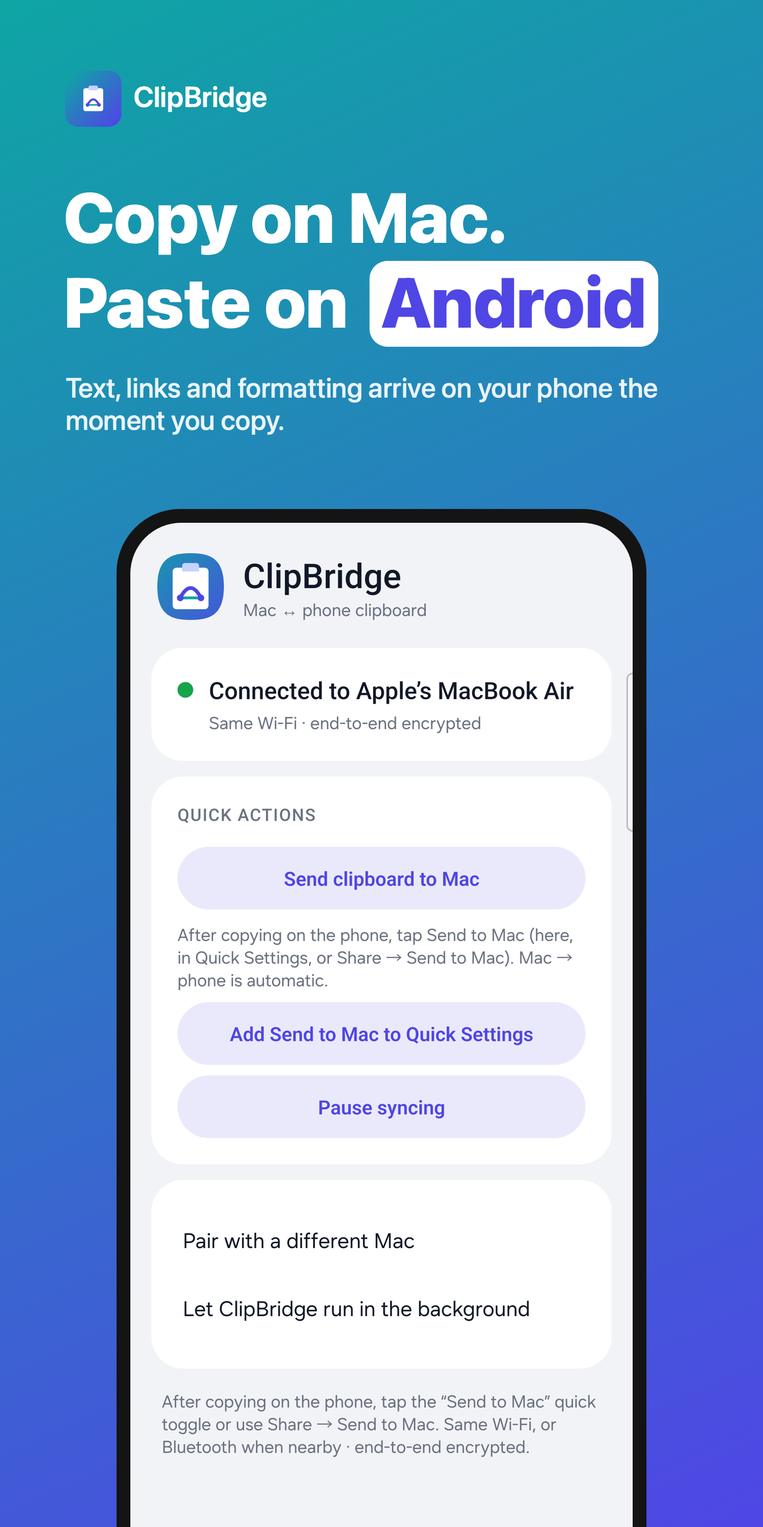
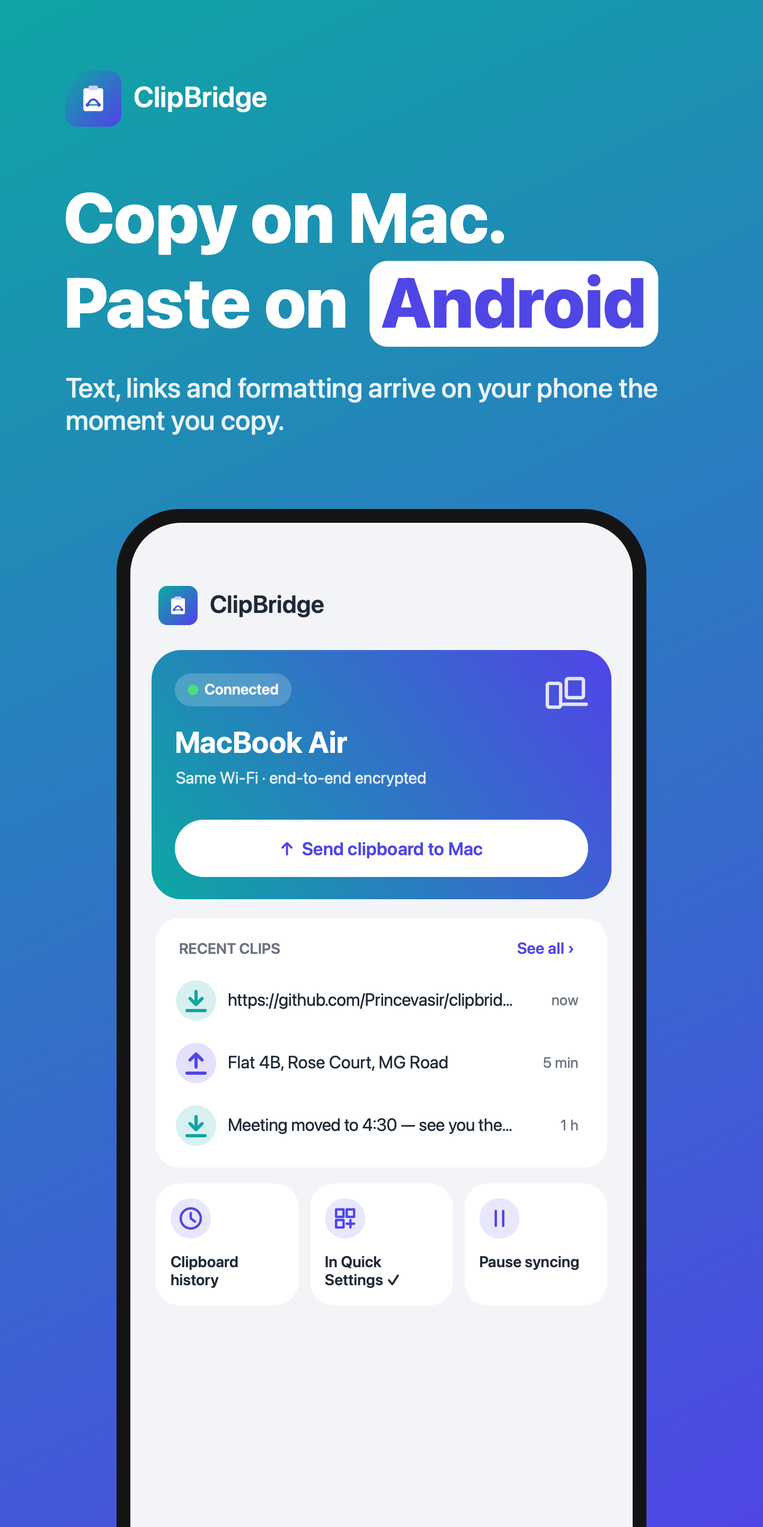
docs: store screenshots and trailer for the new design; README for history, Recent clips and the toggle guide
Six panels (new main screen, Quick Settings toggle, clipboard history, files, Bluetooth, privacy), drawn with
sample clips; trailer rebuilt (32 s).

diff --git a/mac/Sources/iconmaker/StorePanels.swift b/mac/Sources/iconmaker/StorePanels.swift
@@ -1,103 +1,134 @@
 import AppKit
 import ClipBridgeCore
 
-/// The five Play Store panels. Screens are either real screenshots or the app's own cards with the app's own text.
+/// The Play Store panels. The Quick Settings panel is a real screenshot; the app screens are drawn with the
+/// app's own layout and wording and made-up sample clips (so no real copies ever appear).
 enum StorePanels {
     static func all(screenshots: URL) -> [StoreArt.Panel] {
         [
             .init(file: "store-1-copy-paste.png", lead: "Copy on Mac.", plain: "Paste on", highlight: "Android",
                   sub: "Text, links and formatting arrive on your phone the moment you copy.",
-                  screen: .image(screenshots.appendingPathComponent("1-connected.png"))),
+                  screen: .cards(mainScreen)),
             .init(file: "store-2-one-tap.png", lead: "One tap.", plain: "Sent to", highlight: "Mac",
                   sub: "Add Send to Mac next to Torch in Quick Settings. Copy, tap, paste on your Mac.",
                   screen: .image(screenshots.appendingPathComponent("2-quick-toggle.png")),
                   spotlight: NSPoint(x: 797, y: 1630)),  // the Send to Mac toggle in that screenshot
-            .init(file: "store-3-files.png", lead: "Copy files.", plain: "Share", highlight: "anywhere",
+            .init(file: "store-3-history.png", lead: "Copied earlier?", plain: "Find it", highlight: "again",
+                  sub: "Search recent clips you moved between your Mac and phone. Tap to copy, or send it again.",
+                  screen: .cards(historyScreen)),
+            .init(file: "store-4-files.png", lead: "Copy files.", plain: "Share", highlight: "anywhere",
                   sub: "⌘C up to 20 files on your Mac, then share them to Gmail, WhatsApp or Drive.",
                   screen: .cards(filesScreen)),
-            .init(file: "store-4-bluetooth.png", lead: "No Wi-Fi?", plain: "Still", highlight: "connected",
+            .init(file: "store-5-bluetooth.png", lead: "No Wi-Fi?", plain: "Still", highlight: "connected",
                   sub: "Away from home? ClipBridge switches to Bluetooth by itself, and back to Wi-Fi.",
                   screen: .cards(bluetoothScreen)),
-            .init(file: "store-5-private.png", lead: "Your clipboard.", plain: "Only", highlight: "yours",
+            .init(file: "store-6-private.png", lead: "Your clipboard.", plain: "Only", highlight: "yours",
                   sub: "Straight from your phone to your Mac, end-to-end encrypted. No account, no cloud.",
                   screen: .cards(privacyScreen)),
         ]
     }
 
-    private static let label = NSFont.systemFont(ofSize: 30, weight: .semibold)
-    private static let body = NSFont.systemFont(ofSize: 34)
+    private static let label = NSFont.systemFont(ofSize: 28, weight: .semibold)
+    private static let body = NSFont.systemFont(ofSize: 33)
+
+    static func mainScreen(_ s: NSRect) {
+        var y = StoreArt.header(in: s) - s.minY
+        let c = StoreArt.card(in: s, y: y, height: 470)
+        StoreArt.text("RECENT CLIPS", label, StoreArt.grey, at: NSPoint(x: c.minX + 44, y: c.minY + 40))
+        StoreArt.text("See all ›", NSFont.systemFont(ofSize: 30, weight: .semibold), BrandIcon.indigo, at: NSPoint(x: c.maxX - 170, y: c.minY + 38))
+        let rows: [(StoreArt.Kind, String, String)] = [
+            (.fromMac, "https://github.com/Princevasir/clipbridge", "now"),
+            (.toMac, "Flat 4B, Rose Court, MG Road", "5 min"),
+            (.fromMac, "Meeting moved to 4:30 — see you there", "1 h"),
+        ]
+        for (i, r) in rows.enumerated() {
+            StoreArt.clipRow(r.0, r.1, r.2, in: NSRect(x: c.minX + 24, y: c.minY + 100 + CGFloat(i) * 118, width: c.width - 48, height: 110))
+        }
+        y += 470 + 30
+        StoreArt.tiles(in: s, y: y)
+    }
+
+    static func historyScreen(_ s: NSRect) {
+        StoreArt.text("‹", NSFont.systemFont(ofSize: 64, weight: .medium), StoreArt.ink, at: NSPoint(x: s.minX + 44, y: s.minY + 96))
+        StoreArt.text("Clipboard history", NSFont.systemFont(ofSize: 46, weight: .semibold), StoreArt.ink, at: NSPoint(x: s.minX + 104, y: s.minY + 110))
+        StoreArt.text("⋮", NSFont.systemFont(ofSize: 48, weight: .bold), StoreArt.ink, at: NSPoint(x: s.maxX - 84, y: s.minY + 106))
+        let search = NSRect(x: s.minX + 44, y: s.minY + 210, width: s.width - 88, height: 110)
+        NSColor.white.setFill(); NSBezierPath(roundedRect: search, xRadius: 55, yRadius: 55).fill()
+        StoreArt.text("🔍  rose", NSFont.systemFont(ofSize: 34), StoreArt.ink, at: NSPoint(x: search.minX + 40, y: search.minY + 32))
+        var y: CGFloat = 360
+        func section(_ name: String) { StoreArt.text(name, label, StoreArt.grey, at: NSPoint(x: s.minX + 60, y: s.minY + y)); y += 56 }
+        func entry(_ k: StoreArt.Kind, _ t: String, _ meta: String) {
+            let r = StoreArt.card(in: s, y: y, height: 136)
+            StoreArt.clipRow(k, t, "", in: NSRect(x: r.minX + 10, y: r.minY + 8, width: r.width - 20, height: 120), meta: meta)
+            y += 156
+        }
+        section("TODAY")
+        entry(.toMac, "Flat 4B, Rose Court, MG Road, Pune", "To Mac · 5 min ago")
+        entry(.fromMac, "Rose Court visitor parking: gate 2", "From Mac · 2 h ago")
+        section("YESTERDAY")
+        entry(.file, "Rose-garden-plan.pdf · 1.2 MB", "From Mac · Yesterday")
+        entry(.fromMac, "rose.courtsociety@example.com", "From Mac · Yesterday")
+        section("EARLIER")
+        entry(.toMac, "Rose Court maintenance — paid ✓", "To Mac · 4 days ago")
+    }
 
     static func filesScreen(_ s: NSRect) {
-        StoreArt.header(in: s, detail: "Same Wi-Fi · end-to-end encrypted")
-        let c = StoreArt.card(in: s, y: 530, height: 700)
-        StoreArt.text("FROM YOUR MAC", label, StoreArt.grey, at: NSPoint(x: c.minX + 48, y: c.minY + 48))
-        StoreArt.text("3 files", NSFont.systemFont(ofSize: 52, weight: .bold), StoreArt.ink, at: NSPoint(x: c.minX + 48, y: c.minY + 100))
-        NSAttributedString(string: "Quarterly report.pdf, Invoice.pdf, Floor plan.pdf · 4.2 MB · Available for 9 more minutes",
+        let top = StoreArt.header(in: s) - s.minY
+        let c = StoreArt.card(in: s, y: top, height: 560)
+        StoreArt.text("FROM YOUR MAC", label, StoreArt.grey, at: NSPoint(x: c.minX + 44, y: c.minY + 40))
+        StoreArt.text("3 files", NSFont.systemFont(ofSize: 48, weight: .bold), StoreArt.ink, at: NSPoint(x: c.minX + 44, y: c.minY + 90))
+        NSAttributedString(string: "Quarterly report.pdf, Invoice.pdf, Floor plan.pdf · 4.2 MB",
                            attributes: [.font: body, .foregroundColor: StoreArt.grey])
-            .draw(with: NSRect(x: c.minX + 48, y: c.minY + 180, width: c.width - 96, height: 140), options: [.usesLineFragmentOrigin])
-        NSAttributedString(string: "Share it to Gmail, WhatsApp or Drive, or save a copy here. Nothing is downloaded until you do.",
-                           attributes: [.font: NSFont.systemFont(ofSize: 30), .foregroundColor: StoreArt.grey])
-            .draw(with: NSRect(x: c.minX + 48, y: c.minY + 340, width: c.width - 96, height: 140), options: [.usesLineFragmentOrigin])
-        let w = (c.width - 96 - 24) / 2
-        StoreArt.button("Save all", in: NSRect(x: c.minX + 48, y: c.minY + 520, width: w, height: 112), primary: true)
-        StoreArt.button("Share all…", in: NSRect(x: c.minX + 72 + w, y: c.minY + 520, width: w, height: 112), primary: false)
-        // The share result: three attachments in a new email.
-        let m = StoreArt.card(in: s, y: 1280, height: 560)
-        StoreArt.text("New email", NSFont.systemFont(ofSize: 40, weight: .bold), StoreArt.ink, at: NSPoint(x: m.minX + 48, y: m.minY + 44))
+            .draw(with: NSRect(x: c.minX + 44, y: c.minY + 160, width: c.width - 88, height: 100), options: [.usesLineFragmentOrigin])
+        let w = (c.width - 88 - 24) / 2
+        StoreArt.button("Save all", in: NSRect(x: c.minX + 44, y: c.minY + 290, width: w, height: 104), primary: true)
+        StoreArt.button("Share all…", in: NSRect(x: c.minX + 68 + w, y: c.minY + 290, width: w, height: 104), primary: false)
+        StoreArt.text("Nothing is downloaded until you do.", NSFont.systemFont(ofSize: 28), StoreArt.grey, at: NSPoint(x: c.minX + 44, y: c.minY + 440))
+        let m = StoreArt.card(in: s, y: top + 590, height: 500)
+        StoreArt.text("New email", NSFont.systemFont(ofSize: 38, weight: .bold), StoreArt.ink, at: NSPoint(x: m.minX + 44, y: m.minY + 40))
         for (i, name) in ["Quarterly report.pdf", "Invoice.pdf", "Floor plan.pdf"].enumerated() {
-            let r = NSRect(x: m.minX + 48, y: m.minY + 130 + CGFloat(i) * 130, width: m.width - 96, height: 104)
+            let r = NSRect(x: m.minX + 44, y: m.minY + 120 + CGFloat(i) * 120, width: m.width - 88, height: 98)
             StoreArt.screenBg.setFill(); NSBezierPath(roundedRect: r, xRadius: 24, yRadius: 24).fill()
             NSColor(srgbRed: 0xDC / 255, green: 0x26 / 255, blue: 0x26 / 255, alpha: 1).setFill()
-            NSBezierPath(roundedRect: NSRect(x: r.minX + 26, y: r.minY + 22, width: 60, height: 60), xRadius: 10, yRadius: 10).fill()
-            StoreArt.text("PDF", NSFont.systemFont(ofSize: 20, weight: .bold), .white, at: NSPoint(x: r.minX + 36, y: r.minY + 38))
-            StoreArt.text(name, body, StoreArt.ink, at: NSPoint(x: r.minX + 112, y: r.minY + 30))
+            NSBezierPath(roundedRect: NSRect(x: r.minX + 24, y: r.minY + 20, width: 58, height: 58), xRadius: 10, yRadius: 10).fill()
+            StoreArt.text("PDF", NSFont.systemFont(ofSize: 19, weight: .bold), .white, at: NSPoint(x: r.minX + 33, y: r.minY + 36))
+            StoreArt.text(name, body, StoreArt.ink, at: NSPoint(x: r.minX + 106, y: r.minY + 28))
         }
     }
 
     static func bluetoothScreen(_ s: NSRect) {
-        StoreArt.header(in: s, detail: "Via Bluetooth · end-to-end encrypted")
-        let c = StoreArt.card(in: s, y: 530, height: 560)
-        StoreArt.text("QUICK ACTIONS", label, StoreArt.grey, at: NSPoint(x: c.minX + 48, y: c.minY + 48))
-        StoreArt.button("Send clipboard to Mac", in: NSRect(x: c.minX + 48, y: c.minY + 120, width: c.width - 96, height: 112), primary: false)
-        StoreArt.button("Add Send to Mac to Quick Settings", in: NSRect(x: c.minX + 48, y: c.minY + 256, width: c.width - 96, height: 112), primary: false)
-        StoreArt.button("Pause syncing", in: NSRect(x: c.minX + 48, y: c.minY + 392, width: c.width - 96, height: 112), primary: false)
-        // Path illustration: phone ··· Bluetooth ··· Mac
-        let row = s.minY + 1260
-        bluetoothGlyph(center: NSPoint(x: s.midX, y: row + 90), size: 150)
-        StoreArt.text("Wi-Fi first. Bluetooth when it can't reach.", NSFont.systemFont(ofSize: 34, weight: .medium), StoreArt.grey,
-                      at: NSPoint(x: s.minX + 100, y: row + 220))
-    }
-
-    private static func bluetoothGlyph(center c: NSPoint, size: CGFloat) {
+        let y = StoreArt.header(in: s, detail: "Bluetooth · end-to-end encrypted") - s.minY
+        StoreArt.tiles(in: s, y: y)
+        let g = NSPoint(x: s.midX, y: s.minY + y + 420)
         BrandIcon.indigo.setFill()
-        NSBezierPath(ovalIn: NSRect(x: c.x - size / 2, y: c.y - size / 2, width: size, height: size)).fill()
-        let p = NSBezierPath()
-        let u = size / 10
-        p.move(to: NSPoint(x: c.x - 2 * u, y: c.y - 2 * u))
-        p.line(to: NSPoint(x: c.x + 2 * u, y: c.y + 2 * u))
-        p.line(to: NSPoint(x: c.x, y: c.y + 4 * u))
-        p.line(to: NSPoint(x: c.x, y: c.y - 4 * u))
-        p.line(to: NSPoint(x: c.x + 2 * u, y: c.y - 2 * u))
-        p.line(to: NSPoint(x: c.x - 2 * u, y: c.y + 2 * u))
-        p.lineWidth = u * 0.9; p.lineJoinStyle = .round; p.lineCapStyle = .round
+        NSBezierPath(ovalIn: NSRect(x: g.x - 80, y: g.y - 80, width: 160, height: 160)).fill()
+        let u: CGFloat = 16, p = NSBezierPath()
+        p.move(to: NSPoint(x: g.x - 2 * u, y: g.y - 2 * u)); p.line(to: NSPoint(x: g.x + 2 * u, y: g.y + 2 * u))
+        p.line(to: NSPoint(x: g.x, y: g.y + 4 * u)); p.line(to: NSPoint(x: g.x, y: g.y - 4 * u))
+        p.line(to: NSPoint(x: g.x + 2 * u, y: g.y - 2 * u)); p.line(to: NSPoint(x: g.x - 2 * u, y: g.y + 2 * u))
+        p.lineWidth = 0.9 * u; p.lineJoinStyle = .round; p.lineCapStyle = .round
         NSColor.white.setStroke(); p.stroke()
+        let line = "Wi-Fi first. Bluetooth when it can't reach."
+        let f = NSFont.systemFont(ofSize: 33, weight: .medium)
+        let w = (line as NSString).size(withAttributes: [.font: f]).width
+        StoreArt.text(line, f, StoreArt.grey, at: NSPoint(x: s.midX - w / 2, y: g.y + 120))
     }
 
     static func privacyScreen(_ s: NSRect) {
-        StoreArt.header(in: s, detail: "Same Wi-Fi · end-to-end encrypted")
+        let top = StoreArt.header(in: s, send: false) - s.minY
         let items = ["No account or sign-in", "No cloud — phone to Mac directly", "End-to-end encrypted (AES-256)",
-                     "Passwords are never sent", "No ads, no tracking", "Open source"]
-        let c = StoreArt.card(in: s, y: 530, height: CGFloat(items.count) * 130 + 80)
+                     "History stays on your phone, encrypted", "Passwords are never sent", "No ads, no tracking · open source"]
+        let c = StoreArt.card(in: s, y: top, height: CGFloat(items.count) * 124 + 70)
         for (i, item) in items.enumerated() {
-            let y = c.minY + 50 + CGFloat(i) * 130
+            let y = c.minY + 46 + CGFloat(i) * 124
             StoreArt.green.setFill()
-            NSBezierPath(ovalIn: NSRect(x: c.minX + 48, y: y + 10, width: 64, height: 64)).fill()
+            NSBezierPath(ovalIn: NSRect(x: c.minX + 44, y: y + 8, width: 62, height: 62)).fill()
             let tick = NSBezierPath()
-            tick.move(to: NSPoint(x: c.minX + 64, y: y + 43)); tick.line(to: NSPoint(x: c.minX + 76, y: y + 55))
-            tick.line(to: NSPoint(x: c.minX + 97, y: y + 30))
+            tick.move(to: NSPoint(x: c.minX + 60, y: y + 40)); tick.line(to: NSPoint(x: c.minX + 71, y: y + 52))
+            tick.line(to: NSPoint(x: c.minX + 91, y: y + 28))
             tick.lineWidth = 8; tick.lineCapStyle = .round; tick.lineJoinStyle = .round
             NSColor.white.setStroke(); tick.stroke()
-            StoreArt.text(item, NSFont.systemFont(ofSize: 38, weight: .medium), StoreArt.ink, at: NSPoint(x: c.minX + 140, y: y + 18))
+            StoreArt.text(item, NSFont.systemFont(ofSize: 34, weight: .medium), StoreArt.ink, at: NSPoint(x: c.minX + 132, y: y + 18))
         }
     }
 }

diff --git a/mac/Sources/iconmaker/StoreArt.swift b/mac/Sources/iconmaker/StoreArt.swift
@@ -110,15 +110,124 @@ enum StoreArt {
         text(title, f, primary ? .white : BrandIcon.indigo, at: NSPoint(x: r.midX - size.width / 2, y: r.midY - size.height / 2))
     }
 
-    /// App header + connection card, as in the app.
-    static func header(in s: NSRect, detail: String) {
-        BrandIcon.app(side: 120).draw(in: NSRect(x: s.minX + 40, y: s.minY + 120, width: 120, height: 120))
-        text("ClipBridge", NSFont.systemFont(ofSize: 54, weight: .bold), ink, at: NSPoint(x: s.minX + 180, y: s.minY + 128))
-        text("Mac ↔ phone clipboard", NSFont.systemFont(ofSize: 32), grey, at: NSPoint(x: s.minX + 182, y: s.minY + 196))
-        let c = card(in: s, y: 290, height: 200)
-        green.setFill()
-        NSBezierPath(ovalIn: NSRect(x: c.minX + 44, y: c.minY + 62, width: 30, height: 30)).fill()
-        text("Connected to MacBook Air", NSFont.systemFont(ofSize: 42, weight: .semibold), ink, at: NSPoint(x: c.minX + 100, y: c.minY + 48))
-        text(detail, NSFont.systemFont(ofSize: 32), grey, at: NSPoint(x: c.minX + 100, y: c.minY + 112))
+    static let soft = NSColor(srgbRed: 0xE8 / 255, green: 0xE7 / 255, blue: 0xFD / 255, alpha: 1)
+
+    /// The app's top: logo row, then the colour status card with the white "Send clipboard to Mac" button.
+    /// Returns the y (screen coordinates) just below it.
+    @discardableResult
+    static func header(in s: NSRect, pill: String = "Connected", title: String = "MacBook Air",
+                       detail: String = "Same Wi-Fi · end-to-end encrypted", send: Bool = true) -> CGFloat {
+        BrandIcon.app(side: 92).draw(in: NSRect(x: s.minX + 44, y: s.minY + 110, width: 92, height: 92))
+        text("ClipBridge", NSFont.systemFont(ofSize: 46, weight: .semibold), ink, at: NSPoint(x: s.minX + 150, y: s.minY + 126))
+        let h: CGFloat = send ? 470 : 330
+        let hero = NSRect(x: s.minX + 40, y: s.minY + 240, width: s.width - 80, height: h)
+        NSGradient(starting: BrandIcon.teal, ending: BrandIcon.indigo)?.draw(in: NSBezierPath(roundedRect: hero, xRadius: 56, yRadius: 56), angle: -35)
+        // pill
+        let pw = (pill as NSString).size(withAttributes: [.font: NSFont.systemFont(ofSize: 28, weight: .semibold)]).width + 80
+        let pillR = NSRect(x: hero.minX + 44, y: hero.minY + 44, width: pw, height: 62)
+        NSColor(white: 1, alpha: 0.2).setFill(); NSBezierPath(roundedRect: pillR, xRadius: 31, yRadius: 31).fill()
+        NSColor(srgbRed: 0x4A / 255, green: 0xDE / 255, blue: 0x80 / 255, alpha: 1).setFill()
+        NSBezierPath(ovalIn: NSRect(x: pillR.minX + 24, y: pillR.midY - 10, width: 20, height: 20)).fill()
+        text(pill, NSFont.systemFont(ofSize: 28, weight: .semibold), .white, at: NSPoint(x: pillR.minX + 56, y: pillR.minY + 13))
+        devicesGlyph(NSRect(x: hero.maxX - 130, y: hero.minY + 36, width: 86, height: 86))
+        text(title, NSFont.systemFont(ofSize: 56, weight: .bold), .white, at: NSPoint(x: hero.minX + 44, y: hero.minY + 140))
+        text(detail, NSFont.systemFont(ofSize: 31), NSColor(white: 1, alpha: 0.88), at: NSPoint(x: hero.minX + 46, y: hero.minY + 222))
+        if send {
+            let b = NSRect(x: hero.minX + 44, y: hero.maxY - 150, width: hero.width - 88, height: 108)
+            NSColor.white.setFill(); NSBezierPath(roundedRect: b, xRadius: 54, yRadius: 54).fill()
+            let f = NSFont.systemFont(ofSize: 34, weight: .semibold)
+            let label = "↑  Send clipboard to Mac"
+            let size = (label as NSString).size(withAttributes: [.font: f])
+            text(label, f, BrandIcon.indigo, at: NSPoint(x: b.midX - size.width / 2, y: b.midY - size.height / 2))
+        }
+        return hero.maxY + 36
     }
+
+    /// Phone + laptop outline, white.
+    static func devicesGlyph(_ r: NSRect) {
+        let u = r.width / 24
+        let p = NSBezierPath()
+        p.appendRoundedRect(NSRect(x: r.minX + 2.5 * u, y: r.minY + 7.5 * u, width: 7 * u, height: 12.5 * u), xRadius: u, yRadius: u)
+        p.appendRoundedRect(NSRect(x: r.minX + 12.5 * u, y: r.minY + 5 * u, width: 9 * u, height: 10 * u), xRadius: u, yRadius: u)
+        p.move(to: NSPoint(x: r.minX + 11 * u, y: r.minY + 18.5 * u)); p.line(to: NSPoint(x: r.minX + 23 * u, y: r.minY + 18.5 * u))
+        p.lineWidth = 1.8 * u; p.lineCapStyle = .round
+        NSColor(white: 1, alpha: 0.85).setStroke(); p.stroke()
+    }
+
+    enum Kind { case fromMac, toMac, file }
+
+    /// Round badge with an arrow (from/to Mac) or a page (file), like the app's history rows.
+    static func badge(_ kind: Kind, center c: NSPoint, size: CGFloat) {
+        let color: NSColor = kind == .fromMac ? BrandIcon.teal : kind == .toMac ? BrandIcon.indigo : grey
+        color.withAlphaComponent(0.16).setFill()
+        NSBezierPath(ovalIn: NSRect(x: c.x - size / 2, y: c.y - size / 2, width: size, height: size)).fill()
+        let u = size / 40
+        let p = NSBezierPath()
+        switch kind {
+        case .fromMac:
+            p.move(to: NSPoint(x: c.x, y: c.y - 9 * u)); p.line(to: NSPoint(x: c.x, y: c.y + 4 * u))
+            p.move(to: NSPoint(x: c.x - 6 * u, y: c.y - 2 * u)); p.line(to: NSPoint(x: c.x, y: c.y + 4 * u)); p.line(to: NSPoint(x: c.x + 6 * u, y: c.y - 2 * u))
+            p.move(to: NSPoint(x: c.x - 9 * u, y: c.y + 10 * u)); p.line(to: NSPoint(x: c.x + 9 * u, y: c.y + 10 * u))
+        case .toMac:
+            p.move(to: NSPoint(x: c.x, y: c.y + 4 * u)); p.line(to: NSPoint(x: c.x, y: c.y - 9 * u))
+            p.move(to: NSPoint(x: c.x - 6 * u, y: c.y - 3 * u)); p.line(to: NSPoint(x: c.x, y: c.y - 9 * u)); p.line(to: NSPoint(x: c.x + 6 * u, y: c.y - 3 * u))
+            p.move(to: NSPoint(x: c.x - 9 * u, y: c.y + 10 * u)); p.line(to: NSPoint(x: c.x + 9 * u, y: c.y + 10 * u))
+        case .file:
+            p.appendRoundedRect(NSRect(x: c.x - 7 * u, y: c.y - 10 * u, width: 14 * u, height: 20 * u), xRadius: 2 * u, yRadius: 2 * u)
+        }
+        p.lineWidth = 3.2 * u; p.lineCapStyle = .round; p.lineJoinStyle = .round
+        color.setStroke(); p.stroke()
+    }
+
+    /// The three quick-action tiles. Returns the y below them.
+    @discardableResult
+    static func tiles(in s: NSRect, y: CGFloat, labels: [String] = ["Clipboard history", "In Quick Settings ✓", "Pause syncing"]) -> CGFloat {
+        let gap: CGFloat = 22, w = (s.width - 96 - 2 * gap) / 3, h: CGFloat = 230
+        for (i, label) in labels.enumerated() {
+            let r = NSRect(x: s.minX + 48 + CGFloat(i) * (w + gap), y: s.minY + y, width: w, height: h)
+            NSColor.white.setFill(); NSBezierPath(roundedRect: r, xRadius: 44, yRadius: 44).fill()
+            soft.setFill(); NSBezierPath(ovalIn: NSRect(x: r.minX + 28, y: r.minY + 28, width: 76, height: 76)).fill()
+            tileGlyph(i, center: NSPoint(x: r.minX + 66, y: r.minY + 66))
+            NSAttributedString(string: label, attributes: [.font: NSFont.systemFont(ofSize: 29, weight: .semibold), .foregroundColor: ink])
+                .draw(with: NSRect(x: r.minX + 28, y: r.minY + 130, width: r.width - 48, height: 90), options: [.usesLineFragmentOrigin])
+        }
+        return y + h + 36
+    }
+
+    /// Clock (history), grid (Quick Settings), pause — line icons like the app's.
+    static func tileGlyph(_ i: Int, center c: NSPoint) {
+        let p = NSBezierPath()
+        switch i {
+        case 0:
+            p.appendOval(in: NSRect(x: c.x - 19, y: c.y - 19, width: 38, height: 38))
+            p.move(to: NSPoint(x: c.x, y: c.y - 10)); p.line(to: c); p.line(to: NSPoint(x: c.x + 8, y: c.y + 6))
+        case 1:
+            for (dx, dy) in [(-17, -17), (3, -17), (-17, 3)] { p.appendRect(NSRect(x: c.x + CGFloat(dx), y: c.y + CGFloat(dy), width: 14, height: 14)) }
+            p.move(to: NSPoint(x: c.x + 10, y: c.y + 3)); p.line(to: NSPoint(x: c.x + 10, y: c.y + 17))
+            p.move(to: NSPoint(x: c.x + 3, y: c.y + 10)); p.line(to: NSPoint(x: c.x + 17, y: c.y + 10))
+        default:
+            p.move(to: NSPoint(x: c.x - 7, y: c.y - 14)); p.line(to: NSPoint(x: c.x - 7, y: c.y + 14))
+            p.move(to: NSPoint(x: c.x + 7, y: c.y - 14)); p.line(to: NSPoint(x: c.x + 7, y: c.y + 14))
+        }
+        p.lineWidth = 4.5; p.lineCapStyle = .round; p.lineJoinStyle = .round
+        BrandIcon.indigo.setStroke(); p.stroke()
+    }
+
+    /// One history/recent row: badge, text, time.
+    static func clipRow(_ kind: Kind, _ title: String, _ time: String, in r: NSRect, meta: String? = nil) {
+        badge(kind, center: NSPoint(x: r.minX + 52, y: r.midY), size: 76)
+        let f = NSFont.systemFont(ofSize: 33)
+        let style = NSMutableParagraphStyle(); style.lineBreakMode = .byTruncatingTail
+        if let meta {
+            NSAttributedString(string: title, attributes: [.font: f, .foregroundColor: ink, .paragraphStyle: style])
+                .draw(with: NSRect(x: r.minX + 112, y: r.minY + 24, width: r.width - 140, height: 44), options: [.usesLineFragmentOrigin])
+            text(meta, NSFont.systemFont(ofSize: 27), grey, at: NSPoint(x: r.minX + 112, y: r.minY + 76))
+        } else {
+            NSAttributedString(string: title, attributes: [.font: f, .foregroundColor: ink, .paragraphStyle: style])
+                .draw(with: NSRect(x: r.minX + 112, y: r.midY - 22, width: r.width - 260, height: 44), options: [.usesLineFragmentOrigin])
+            let tw = (time as NSString).size(withAttributes: [.font: NSFont.systemFont(ofSize: 28)]).width
+            text(time, NSFont.systemFont(ofSize: 28), grey, at: NSPoint(x: r.maxX - 30 - tw, y: r.midY - 18))
+        }
+    }
+
 }

diff --git a/README.md b/README.md
@@ -25,7 +25,8 @@ All versions and checksums: [Releases](https://github.com/Princevasir/clipbridge
 
 - **Text, Mac → phone:** copy on the Mac, paste on the phone. Automatic.
 - **Text, phone → Mac:** copy in most Android apps and it's on the Mac clipboard. Where an app copies
-  silently, use the **Send to Mac** Quick Settings tile, **Share → Send to Mac**, or **Send clipboard to Mac** in the app.
+  silently, use the **Send to Mac** toggle in your notification panel, **Share → Send to Mac**, or the big
+  **Send clipboard to Mac** button on ClipBridge's main screen.
 - **Files, Mac → phone (up to 25 MB each, up to 20 at once):** ⌘C one or several files in Finder. The phone only
   learns their names and sizes; the files themselves move **only when you use them**: open ClipBridge and tap
   **Share…** (attaches them in Gmail, WhatsApp, Drive…) or **Save to Downloads**. Images can also simply be pasted.
@@ -40,6 +41,9 @@ All versions and checksums: [Releases](https://github.com/Princevasir/clipbridge
   straight onto the Mac clipboard — ⌘V in Notes, Messages, Slack.
 - **Files, phone → Mac:** **Share → Send to Mac** from any app. Files land in your Mac's **Downloads** and on its
   clipboard, ready for ⌘V in Finder or Mail.
+- **Clipboard history (phone):** **Recent clips** on the main screen and a searchable **Clipboard history** of
+  what crossed between your devices — grouped by day; tap to copy again, long-press to send to the Mac again.
+  Kept only on the phone, encrypted; 25/50/100 clips for 1/7/30 days, or off.
 - **Private by design:** a direct encrypted connection on your own Wi-Fi (AES-256-GCM with a key that only ever
   travels in the pairing QR code). Passwords copied from password managers are never sent.
 
@@ -106,11 +110,12 @@ never screen content — and sends only to your paired Mac.
 
 - **Bluetooth fallback:** in ClipBridge, tap **Allow Bluetooth** on the setup card and allow **Nearby devices**.
   Without it, ClipBridge simply stays Wi-Fi-only.
-- **"Send to Mac" quick toggle** (next to Torch, Auto rotate…): in ClipBridge tap **Add Send to Mac to Quick
-  Settings** → **Add** (Android 13+). Samsung places new toggles at the bottom of the panel: tap ✏ and drag
-  **Send to Mac** up into the grid. On Android 10–12, swipe down twice → ✏ → drag **Send to Mac** in.
-  The toggle lights up with **Ready** while your Mac is connected; tap it after copying to send your clipboard.
-- **Battery:** in ClipBridge, tap **Let ClipBridge run in the background**, so Android doesn't pause it.
+- **"Send to Mac" quick toggle** (next to Torch, Auto rotate…): in ClipBridge tap the **Add to Quick Settings**
+  tile — a short guide with **Add it now** (Android 13+; tap **Add**). Samsung places new toggles at the end of
+  the panel: tap ✏ and drag **Send to Mac** up into the grid. On Android 10–12 the guide shows how to add it by
+  hand. The toggle lights up with **Ready** while your Mac is connected; tap it after copying to send your
+  clipboard. Once it's in place, the tile says **In Quick Settings ✓**.
+- **Battery:** in ClipBridge → Settings, tap **Run in the background**, so Android doesn't pause it.
 - **Notifications** are optional. With them off, everything still works; use the ClipBridge screen for
   **Save to Downloads**.
 
@@ -119,12 +124,14 @@ never screen content — and sends only to your paired Mac.
 | You want to… | Do this |
 |---|---|
 | Send text Mac → phone | Copy on the Mac. Paste on the phone. |
-| Send text phone → Mac | Copy on the phone (automatic copy on), or tap the **Send to Mac** tile. Paste on the Mac. |
+| Send text phone → Mac | Copy on the phone, then tap **Send to Mac** in your notification panel (or **Send clipboard to Mac** in the app; ClipBridge Pro sends by itself). Paste on the Mac. |
+| Find something you sent earlier | ClipBridge → **Recent clips**, or **Clipboard history** to search. Tap to copy; long-press → **Send to Mac**. |
 | Send files Mac → phone | ⌘C one or several files in Finder. On the phone open ClipBridge → **Share…** and pick Gmail, WhatsApp, Drive… **or** **Save to Downloads** (saved in *Download/ClipBridge*). |
 | Send a file phone → Mac | **Share → Send to Mac**. It's in **Downloads** on the Mac; ⌘V pastes it. |
 | Send a screenshot Mac → phone | ⌃⇧⌘4 (copies to the clipboard), then paste on the phone or **Save to Downloads**. |
 | Send an image phone → Mac | Copy it on the phone (Chrome: long-press → **Copy image**), then ⌘V on the Mac. |
-| Pause syncing | Mac menu → **Pause syncing**, or ClipBridge → **Pause syncing** on the phone. |
+| Pause syncing | Mac menu → **Pause syncing**, or the **Pause syncing** tile in ClipBridge on the phone. |
+| Clear or turn off history | ClipBridge → **Clipboard history** → ⋮ → **Clear history** / **Settings**. |
 | Pair a new phone / revoke the old one | Mac menu → **Reset pairing…**, then scan the new code. |
 
 Note: most Android apps (Gmail included) accept **pasted images** but ignore other pasted files such as PDFs —

diff --git a/docs/play-store/README.md b/docs/play-store/README.md
@@ -12,9 +12,9 @@ help people with disabilities, so Pro would very likely be rejected.
 | Privacy policy URL | `https://github.com/Princevasir/clipbridge/blob/main/PRIVACY.md` (live once pushed) |
 | App icon 512 × 512 | `docs/play-store/icon-512.png` |
 | Feature graphic 1024 × 500 | `docs/play-store/feature-graphic.png` |
-| Phone screenshots — upload these 5 (1440 × 2880) | `docs/play-store/store-screenshots/store-1…5-*.png` — headline + phone. Regenerate: `cd mac && swift run iconmaker --store ../docs/play-store/screenshots ../docs/play-store/store-screenshots` |
+| Phone screenshots — upload these 6 (1440 × 2880) | `docs/play-store/store-screenshots/store-1…6-*.png` — headline + phone. Regenerate: `cd mac && swift run iconmaker --store ../docs/play-store/screenshots ../docs/play-store/store-screenshots` |
 | Raw app screenshots (used inside the panels) | `docs/play-store/screenshots/` |
-| Trailer video (27.8 s, 1920 × 1080, silent) | `docs/play-store/trailer.mp4` — not in git; regenerate with `cd mac && swift run iconmaker --trailer ../docs/play-store/screenshots ../docs/play-store/trailer.mp4` |
+| Trailer video (32 s, 1920 × 1080, silent) | `docs/play-store/trailer.mp4` — not in git; regenerate with `cd mac && swift run iconmaker --trailer ../docs/play-store/screenshots ../docs/play-store/trailer.mp4` |
 | Store text, Data safety, declarations | below |
 
 ## Your steps in Play Console (only you can do these)
